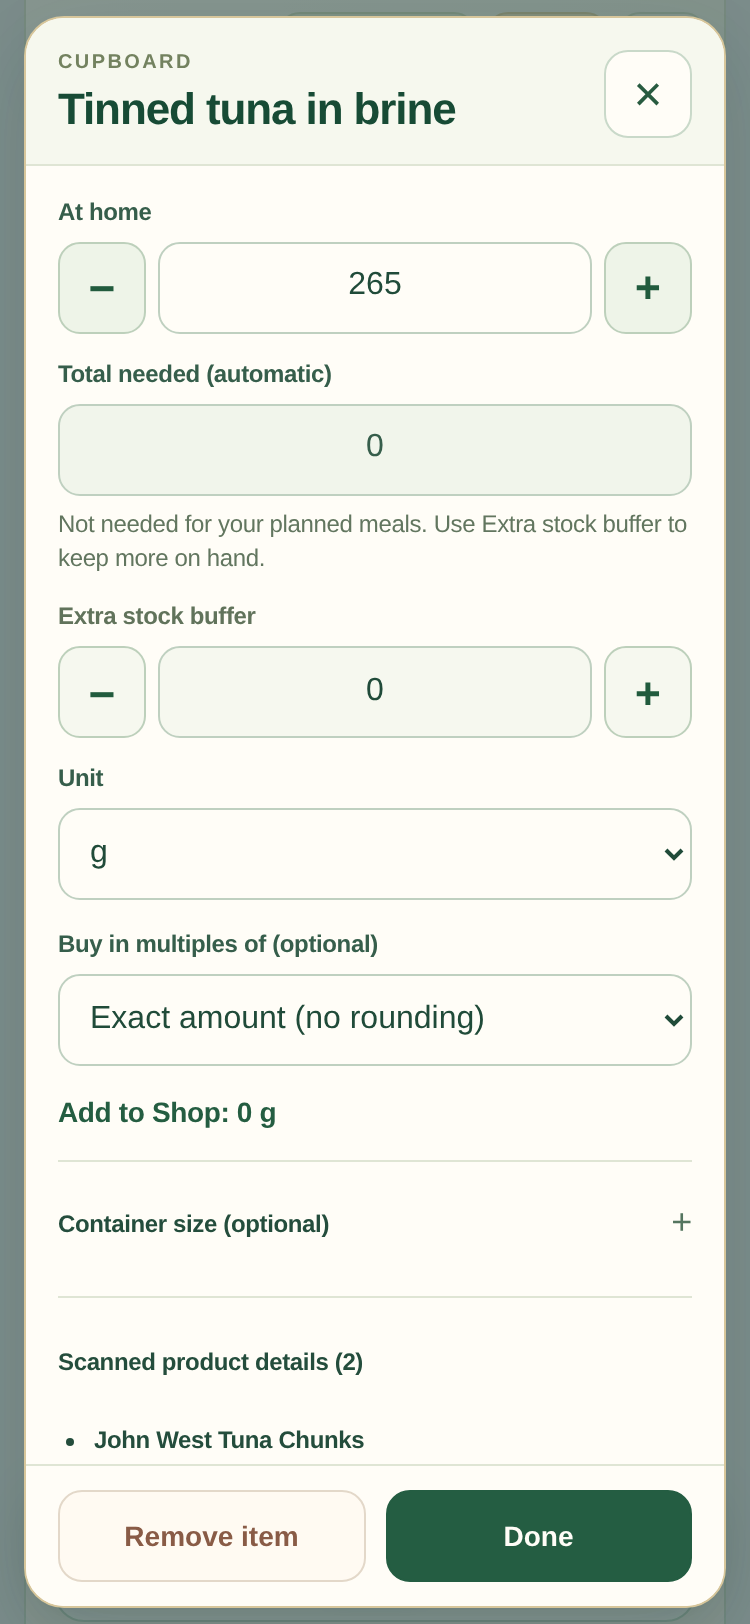
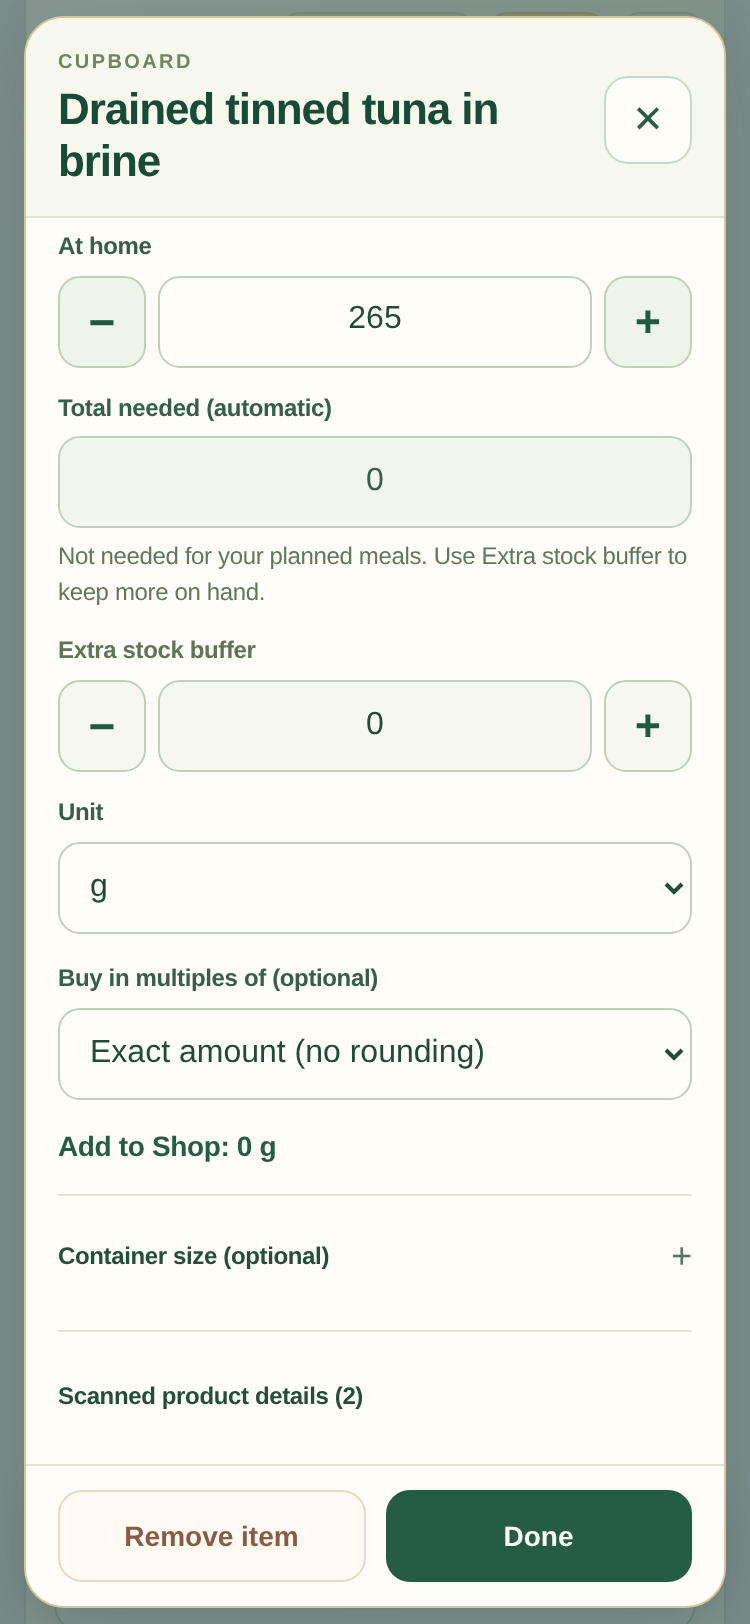
Separate tuna weight bases and preserve completed native test reports

diff --git a/bb-pantry-inline.js b/bb-pantry-inline.js
@@ -245,11 +245,11 @@
    // Recalculate it in the current unit rather than reusing a rounded input.
    try{info=win.BBHome?.foodTarget?.({...draftRow(view),inputMarket:market(),automaticNeeded:true,extraBuffer:0,buyMultiple:0},{otherRows:view.api.list().filter(item=>item.key!==(view.key||view.matchedKey))});}catch{}
    const problem=info?.targetProblem||(!info?'Shopping totals are still loading. Please try again.':'');
-   view.needed.value=problem?'':String(info.totalNeeded);
+   view.needed.value=problem?'':info.plannedNeedsReview&&info.totalQuantity===0?'Needs review':String(info.totalNeeded);
    let help=problem;
    if(!problem){
     const number=new Intl.NumberFormat(market()==='US'?'en-US':'en-GB',{maximumFractionDigits:2});
-    help=info.plannedNeedsReview?'Planned meal quantities need a unit check; only compatible amounts are included.':info.mealQuantity>0?'From your planned meals: '+number.format(info.mealNeeded)+' '+view.units.value+'.':'Not needed for your planned meals.';
+    help=info.plannedNeedsReview?(info.plannedReviewMessage||'Planned meal quantities need a unit check; only compatible amounts are included.'):info.mealQuantity>0?'From your planned meals: '+number.format(info.mealNeeded)+' '+view.units.value+'.':'Not needed for your planned meals.';
     if(info.totalQuantity>info.mealQuantity+info.quantityTolerance)help+=' Includes your saved restock target.';
     if(info.manualQuantity>0)help+=' Extra already on Shop: '+number.format(info.manualNeeded)+' '+view.units.value+'.';
     if(info.otherRequestsNeedReview)help+=' Some existing Shop items use different units and need review.';
@@ -260,7 +260,7 @@
   function refreshPreview(view=editor){
    if(!view)return;
    const target=automaticNeeded(view);
-   const owned=Number(view.quantity.value),needed=Number(view.needed.value),buffer=Number(view.buffer.value),known=view.quantity.value.trim()!==''&&view.needed.value.trim()!==''&&view.buffer.value.trim()!==''&&[owned,needed,buffer].every(value=>Number.isFinite(value)&&value>=0);
+   const owned=Number(view.quantity.value),needed=target?.totalNeeded??NaN,buffer=Number(view.buffer.value),known=!!target&&view.quantity.value.trim()!==''&&view.buffer.value.trim()!==''&&[owned,needed,buffer].every(value=>Number.isFinite(value)&&value>=0);
    const unit=view.units.value,model=draftRow(view),other=Number(view.row.otherOwned||0)===0?0:converted({...view.row,qty:view.row.otherOwned},unit,win.BBPantryPolicy,market()),buy=multipleDraft(view);
    let calculation=null;
    if(target&&known&&!target.otherOwnedNeedsReview&&other!==null&&buy.quantity!==null)try{
@@ -303,7 +303,7 @@
   }
   function preparePanel(view){
    const target=automaticNeeded(view);
-   const row=draftRow(view),raw=view.quantity.value.trim(),neededRaw=view.needed.value.trim(),bufferRaw=view.buffer.value.trim(),buy=multipleDraft(view);
+   const row=draftRow(view),raw=view.quantity.value.trim(),neededRaw=target?String(target.totalNeeded):'',bufferRaw=view.buffer.value.trim(),buy=multipleDraft(view);
    if(!row.name)return {error:'Enter the food name.',field:view.name};
    if(view.group&&(view.groupDirty||view.newItem)){
     try{const pin=win.BBPantryGroups.context();if(pin.actor!==view.actor||pin.raw!==view.group.pin.raw)return {error:'Subcategories changed. Close this panel and review them before saving.'};view.group.pin=pin;}catch{return {error:'Reopen At home to review your subcategories before saving.'};}
@@ -385,7 +385,7 @@
    const field=(label,input,value,aria)=>{input.type='number';input.inputMode='decimal';input.min='0';input.max=row.staple?'10000':'1000000';input.step=row.staple?'1':'any';input.placeholder='0';input.value=value;input.setAttribute('aria-label',aria);const stepper=el('div','bbpi-stepper'),less=btn('−',()=>localStep(input,-1),'bbpi-step'),more=btn('+',()=>localStep(input,1),'bbpi-step');less.setAttribute('aria-label','Less '+aria);more.setAttribute('aria-label','More '+aria);stepper.append(less,input,more);label.append(stepper);controls.append(label);};
    field(quantityLabel,quantity,rowAmount(row,unit),'Amount of '+(row.name||'food')+' at home');quantity.step='any';quantity.dataset.bbpiQuantity='';
    const defaultNeeded=converted({...row,qty:row.totalNeeded??0},unit,win.BBPantryPolicy,market());
-   needed.type='number';needed.readOnly=true;needed.value=defaultNeeded===null?'':String(defaultNeeded);needed.setAttribute('aria-label','Total needed for '+(row.name||'food'));needed.setAttribute('aria-describedby','bbpiNeededHelp');needed.dataset.bbpiNeeded='';neededHelp.id='bbpiNeededHelp';neededHelp.setAttribute('aria-live','polite');neededLabel.append(needed,neededHelp);controls.append(neededLabel);
+   needed.type='text';needed.readOnly=true;needed.value=defaultNeeded===null?'':String(defaultNeeded);needed.setAttribute('aria-label','Total needed for '+(row.name||'food'));needed.setAttribute('aria-describedby','bbpiNeededHelp');needed.dataset.bbpiNeeded='';neededHelp.id='bbpiNeededHelp';neededHelp.setAttribute('aria-live','polite');neededLabel.append(needed,neededHelp);controls.append(neededLabel);
    const defaultBuffer=converted({...row,qty:row.extraBuffer??0},unit,win.BBPantryPolicy,market());
    field(bufferLabel,buffer,defaultBuffer===null?'':String(defaultBuffer),'Extra stock buffer for '+(row.name||'food'));buffer.dataset.bbpiBuffer='';
    const unitTag=el('label','bbpi-unit-label','Unit'),units=el('select');units.setAttribute('aria-label','Unit for '+(row.name||'food'));unitOptions(units,row.staple?['each']:(api.units?.()||['each','g','kg','ml','l','pack','bag','tin']),unit,row);unitTag.append(units);controls.append(unitTag);content.append(controls);

diff --git a/ios/App/App/AppDelegate.swift b/ios/App/App/AppDelegate.swift
@@ -379,18 +379,27 @@ private enum BasketBossAccountKeyboardSetup {
 // A fresh CI simulator can exercise the actual capacitor:// WKWebView. This
 // hook is excluded from Release and never changes a user's normal installation.
 private final class BasketBossCookSmokeReporter: NSObject, WKScriptMessageHandler {
+    // This reporter is created afresh for each smoke launch. Completion is
+    // terminal, including failure; queued messages from an older document
+    // must not replace the final report while XCTest polls its atomic file.
+    private var completed = false
+
     func userContentController(_ userContentController: WKUserContentController, didReceive message: WKScriptMessage) {
         guard let report = message.body as? [String: Any] else { return }
         record(report)
     }
 
     func record(_ report: [String: Any]) {
+        guard !completed else { return }
         let keys = ["complete", "passed", "nativeOrigin", "cookMounted", "cookReady", "navPresent", "navVisible", "navHit", "legacyVisible", "backToPlan", "dataKept", "mainReady", "startupReady", "phase", "readyState", "errorCount", "errorLine", "errorKind", "errorSource", "lastScript", "scriptCount", "ingredientClosed", "ingredientPhoto", "ingredientSaved", "ingredientAutofill", "ingredientExistingKept", "ingredientRestored", "voiceFreeLocked", "voiceManualStart", "voiceNextStep", "voiceTimer", "voiceScaledAmount", "voiceExitStopped", "voiceRestored", "voicePrepAvailable", "voicePrepNarrated", "voicePrepAdvanced", "voiceCookNarrated", "voiceStepNarrated", "mentorAvailable", "mentorRecipeContext", "mentorSpokenQuestion", "mentorTypedQuestion", "mentorFollowupHistory", "mentorPrivateAudio", "mentorAnswerVisible", "mentorNoAutonomousActions", "mentorCancelledAnswer", "mentorInterrupt", "mentorHistoryCleared", "mentorNoDeviceFallback", "mentorGreetingName", "voiceFailure"]
         let safe = report.filter { keys.contains($0.key) }
         guard let data = try? JSONSerialization.data(withJSONObject: safe, options: [.sortedKeys]),
               let folder = FileManager.default.urls(for: .documentDirectory, in: .userDomainMask).first else { return }
         try? FileManager.default.createDirectory(at: folder, withIntermediateDirectories: true)
-        try? data.write(to: folder.appendingPathComponent("bb-native-cook-smoke.json"), options: .atomic)
+        do {
+            try data.write(to: folder.appendingPathComponent("bb-native-cook-smoke.json"), options: .atomic)
+            completed = report["complete"] as? Bool == true
+        } catch {}
     }
 
     static let script = #"""
@@ -400,9 +409,11 @@ private final class BasketBossCookSmokeReporter: NSObject, WKScriptMessageHandle
       addEventListener('error',e=>{errors.push({kind:e.error?.name||'ResourceError',line:e.lineno||0,source:String(e.filename||e.target?.src||'').split('/').pop().split('?')[0].replace(/[^A-Za-z0-9_.-]/g,'').slice(0,100)});},true);
       localStorage.setItem('bb_onboarding_fresh_once_20261028_v1',JSON.stringify({complete:true,step:10}));
       localStorage.setItem('basketboss_native_smoke_probe','keep');
-      let ticks=0,scrolled=false,navigationPending=false,ingredientRunning=false,voiceRunning=false;
-      function progress(report={},complete=false){const e=errors[0]||{},scripts=[...document.scripts],last=scripts.at(-1);window.webkit.messageHandlers.bbNativeCookSmoke.postMessage({...JSON.parse(sessionStorage.getItem(key+'_report')||'{}'),complete,nativeOrigin:location.protocol==='capacitor:',phase:location.pathname.endsWith('/make-a-meal.html')?'cook':sessionStorage.getItem(key)==='back'?'return':'main',readyState:document.readyState,mainReady:!!document.getElementById('app')?.firstElementChild,startupReady:window.BBNativeStartup?.phase==='ready',scriptCount:scripts.length,lastScript:String(last?.src||last?.id||'inline').split('/').pop().split('?')[0].replace(/[^A-Za-z0-9_.-]/g,'').slice(0,100),...report,errorCount:errors.length,errorLine:e.line||0,errorKind:e.kind||'',errorSource:e.source||''});}
-      function send(report){progress(report,true);clearInterval(timer);}
+      let ticks=0,scrolled=false,navigationPending=false,ingredientRunning=false,voiceRunning=false,completed=false;
+      function progress(report={},complete=false){if(completed&&!complete)return;const e=errors[0]||{},scripts=[...document.scripts],last=scripts.at(-1);window.webkit.messageHandlers.bbNativeCookSmoke.postMessage({...JSON.parse(sessionStorage.getItem(key+'_report')||'{}'),complete,nativeOrigin:location.protocol==='capacitor:',phase:location.pathname.endsWith('/make-a-meal.html')?'cook':sessionStorage.getItem(key)==='back'?'return':'main',readyState:document.readyState,mainReady:!!document.getElementById('app')?.firstElementChild,startupReady:window.BBNativeStartup?.phase==='ready',scriptCount:scripts.length,lastScript:String(last?.src||last?.id||'inline').split('/').pop().split('?')[0].replace(/[^A-Za-z0-9_.-]/g,'').slice(0,100),...report,errorCount:errors.length,errorLine:e.line||0,errorKind:e.kind||'',errorSource:e.source||''});}
+      // A later load/readystatechange/script event must not replace the final
+      // atomic report with an incomplete Cook-only snapshot after return.
+      function send(report){if(completed)return;completed=true;progress(report,true);clearInterval(timer);}
       async function verifyIngredients(){
         const report={},stateKey='basketboss_321_unified_state_v1';
         const wait=async read=>{for(let n=0;n<60;n++){const value=read();if(value)return value;await new Promise(resolve=>setTimeout(resolve,100));}throw Error('IngredientSmokeTimeout');};

diff --git a/bb-home.js b/bb-home.js
@@ -168,14 +168,19 @@
    const nameId=host().id(row.name,''),matching=name=>host().id(name,'')===nameId;
    const raw=row.qty===null||row.qty===undefined||row.qty===''?null:Number(row.qty),owned=raw===null?{quantity:0,unit:one.unit}:measure(row,raw);
    if(!owned||owned.unit!==one.unit||!valid(owned.quantity))return problem('Review the amount at home before adding this item to Shop.');
-   let planned=0,prior=0,manual=0,otherOwned=0,otherOwnedNeedsReview=false,defaultRestock=0,hasPrior=false,plannedNeedsReview=false,otherRequestsNeedReview=false;
+   let planned=0,prior=0,manual=0,otherOwned=0,otherOwnedNeedsReview=false,defaultRestock=0,hasPrior=false,plannedNeedsReview=false,otherRequestsNeedReview=false,plannedReviewMessage='';
+   const cannedTuna=name=>{const text=String(policy?.canonicalName?.(name,win.BBPriceV19?.canonical)||name||'').normalize('NFKD').toLowerCase();return /\btuna\b/.test(text)&&/\b(?:tinned|canned|tins?|cans?)\b/.test(text)&&!/\b(?:fresh|frozen|raw|steaks?|fillets?|salmon|mackerel|sardines?|anchovies|cod|haddock|trout)\b/.test(text);};
    for(const item of otherRows){
     if(!matching(item?.name||item?.key)||item.qty===null||item.qty===undefined||item.qty==='')continue;
     const value=measure(item,Number(item.qty));
     if(!value||value.unit!==one.unit){if(Number(item.qty)>0)otherOwnedNeedsReview=true;continue;}otherOwned+=value.quantity;
    }
    for(const item of requirements||host()?.requirements?.()||[]){
-    if(!matching(item.key||item.name)||!(Number(item.required)>0))continue;
+    if(!(Number(item.required)>0))continue;
+    if(!matching(item.key||item.name)){
+     if(cannedTuna(row.name)&&cannedTuna(item.key||item.name)){plannedNeedsReview=true;plannedReviewMessage='Your planned meals use related tuna, but the type or net/drained weight needs review.';}
+     continue;
+    }
     if(container){if(item.cupboardRequired===false){if(!automatic||!(raw>0)||(policy?.stapleStatus?.(row)||row.stapleStatus)!=='in')defaultRestock=1;continue;}planned=1;continue;}
     const value=measure(item,Number(item.required));
     if(measuredMode&&(!value||value.unit!==one.unit)){plannedNeedsReview=true;continue;}
@@ -217,7 +222,7 @@
     purchase=automatic?purchaseAmounts({needed:missing,owned:0,multiple:buyMultiple,unit:one.unit}):purchaseAmounts({needed:total,buffer:extraBuffer,owned:totalOwned,multiple:buyMultiple,unit:one.unit});
    }catch(error){return problem(error.message);}
    const view=value=>Math.round(value/one.quantity*1000000)/1000000;
-   return {totalNeeded:view(total),totalQuantity:total,requiredNeeded:view(total+extraBuffer),requiredQuantity:roundQuantity(total+extraBuffer),extraBuffer:view(extraBuffer),extraBufferQuantity:extraBuffer,buyMultiple:view(buyMultiple),buyMultipleUnit:row.unit,buyMultipleQuantity:buyMultiple,unroundedShortfall:view(purchase.shortfall),purchasePackCount:purchase.packCount,mealNeeded:view(planned),minimumNeeded:view(minimum),manualNeeded:view(manual),otherOwned:view(otherOwned),otherOwnedNeedsReview,plannedNeedsReview,otherRequestsNeedReview,shortfall:view(purchase.purchaseQuantity),targetProblem:'',canonicalUnit:one.unit,quantityPerUnit:one.quantity,quantityTolerance:Math.max(0.000001,one.quantity*0.0000005+0.0000005),mealQuantity:planned,manualQuantity:manual,minimumQuantity:minimum,restockQuantity:prior,restockPending:hasPrior,defaultRestockQuantity:hasPrior?0:defaultRestock};
+   return {totalNeeded:view(total),totalQuantity:total,requiredNeeded:view(total+extraBuffer),requiredQuantity:roundQuantity(total+extraBuffer),extraBuffer:view(extraBuffer),extraBufferQuantity:extraBuffer,buyMultiple:view(buyMultiple),buyMultipleUnit:row.unit,buyMultipleQuantity:buyMultiple,unroundedShortfall:view(purchase.shortfall),purchasePackCount:purchase.packCount,mealNeeded:view(planned),minimumNeeded:view(minimum),manualNeeded:view(manual),otherOwned:view(otherOwned),otherOwnedNeedsReview,plannedNeedsReview,plannedReviewMessage,otherRequestsNeedReview,shortfall:view(purchase.purchaseQuantity),targetProblem:'',canonicalUnit:one.unit,quantityPerUnit:one.quantity,quantityTolerance:Math.max(0.000001,one.quantity*0.0000005+0.0000005),mealQuantity:planned,manualQuantity:manual,minimumQuantity:minimum,restockQuantity:prior,restockPending:hasPrior,defaultRestockQuantity:hasPrior?0:defaultRestock};
   }
   function roundShoppingItems(items){
    const preferences=Object.values(targets()),policy=win.BBPantryPolicy,market=win.bb307ActiveMarket?.()||'UK';

diff --git a/bb-pantry-camera.js b/bb-pantry-camera.js
@@ -41,6 +41,9 @@
    if(bases.size>1)problem='Net and drained weights cannot be combined. Review these product amounts.';
    if(group.rows.length>1&&group.rows.some(row=>row.product.needsVariant&&row.amount?.quantity>0))problem='Confirm the packing liquid before combining tuna from different products.';
    if(previous.scanQuantityBasis&&bases.size&& !bases.has(previous.scanQuantityBasis)&&previous.bb173StockValue>0)problem='The saved stock uses a different weight basis. Review the existing total before replacing it.';
+   for(const [oldId,old]of Object.entries(nextInventory))if(oldId!==id&&old?.selected!==false&&old.loc===loc&&old.bb173StockValue>0&&old.scanQuantityBasis&&bases.size&&!bases.has(old.scanQuantityBasis)&&Array.isArray(old.scanProductLots)){
+    if(old.scanProductLots.some(prior=>lots.some(lot=>String(lot.productName).toLowerCase()===String(prior.productName).toLowerCase())))problem='The saved stock uses a different weight basis. Review the existing total before replacing it.';
+   }
    // Retire only unmeasured aliases whose exact product is present in this
    // reviewed snapshot. Previously measured branded stock is never guessed.
    for(const [oldId,old]of Object.entries(nextInventory))if(oldId!==id&&old?.selected!==false&&old.loc===loc&&incoming.has(oldId)){

diff --git a/bb-scan-food-identity.js b/bb-scan-food-identity.js
@@ -18,7 +18,7 @@
    if(declared&&chosen!==declared)throw Error('The selected tuna type disagrees with its product label.');
    const basis=quantityBasis==='net'||quantityBasis==='drained'?quantityBasis:tuna[3]==='drained'?'drained':tuna[3]==='net weight'?'net':'';
    if(tuna[3]&&basis!==(tuna[3]==='drained'?'drained':'net'))throw Error('The selected weight basis disagrees with its product label.');
-   return {...result,canonicalName:'Tinned tuna'+(chosen?' '+variants[chosen]:''),brand:tuna[1]?/^john/.test(tuna[1])?'John West':'Waitrose':'',family:'tinned tuna',approved:true,variant:chosen,quantityBasis:basis,needsVariant:!chosen,needsBasis:!basis};
+   return {...result,canonicalName:(basis==='drained'?'Drained tinned tuna':'Tinned tuna')+(chosen?' '+variants[chosen]:''),brand:tuna[1]?/^john/.test(tuna[1])?'John West':'Waitrose':'',family:'tinned tuna',approved:true,variant:chosen,quantityBasis:basis,needsVariant:!chosen,needsBasis:!basis};
   }
   const tomato=label.match(/^(?:(essential waitrose|waitrose) )?((?:tinned |canned )?chopped tomatoes)$/);
   if(tomato)return {...result,canonicalName:'Chopped tomatoes',brand:tomato[1]?'Waitrose':'',family:'chopped tomatoes',approved:true};

diff --git a/docs/PANTRY_STOCK_FLOW_20261107.md b/docs/PANTRY_STOCK_FLOW_20261107.md
@@ -9,12 +9,12 @@ At home now calculates meal demand automatically, saves extra stock without requ
 - A half-used bottle is valid stock. A one-bottle buffer with 0.5 bottles owned requests one whole bottle. Finishing adds one bottle, leaving 1.5; repeating Finish does not add it again.
 - One 20 g peppercorn jar is one jar with 20 g recorded as its contents. A reviewed measured entry can instead hold 20 g. Changing tracking mode requires a new quantity; old container counts are never silently treated as grams.
 - Explicit restock targets and direct Shop requests remain intact. Incompatible measurements and ambiguous Pepper identities stay visible for review rather than receiving guessed conversions or stock credit.
-- Approved compatible product aliases from an At home photo review share a food heading and retain individual brand/product details. Confirmed compatible amounts are grouped before the stocktake replaces that location's amount. Unknown amounts, packing liquids and net/drained weight differences require review. Existing measured branded stock is not automatically migrated.
+- Approved compatible product aliases from an At home photo review share a food heading and retain individual brand/product details. Confirmed compatible amounts are grouped before the stocktake replaces that location's amount. Unknown amounts, packing liquids and net/drained weight differences require review. Existing measured branded stock is not automatically migrated. Drained tuna has a distinct physical identity from net pack weight; related meal quantities show Needs review instead of an incorrect zero-demand message.
 - Moving between a long Cupboard list and short Fridge list reveals the chosen section beneath the toolbar. Unchanged item controls remain mounted; tapping an already active Food/Essentials tab does not reset the scroll position or flush again.
 
 ## Validation
 
-- Full Node suite: 2,841 cases, 2,838 passed, zero failures, one unavailable Swift check skipped, two existing TODOs.
+- Full Node suite: 2,847 cases, 2,844 passed, zero failures, one unavailable Swift check skipped, two existing TODOs.
 - Pinned TypeScript 5.9.3: strict/checkJs/noEmit pantry contracts passed.
 - Generated native web bundle: 936 files, 100 Free recipes, no private recipe bundle. Portable iOS verification passed; Xcode signing and device compilation still require the Mac.
 - Isolated touch Chromium at 375 px and 320 px: full plan/stock/shop/cook and scanner journeys passed, with no page or console errors and matching source hashes.
@@ -24,6 +24,10 @@ All browser HTTP traffic was intercepted and used synthetic accounts. No custome
 
 One earlier 375 px attempt recorded an unexplained same-URL reload after reopening a jar editor. The focused repro and full traced rerun passed; the traced rerun contained only the six expected test navigations. This attempt remains in the QA history; no speculative navigation or account-security change was made.
 
+## Native CI reporter
+
+A Debug-only Cook test reporter could overwrite its completed atomic result with a later load/readystate/script progress message. Completion is now terminal in both the JavaScript reporter and its per-launch native writer, including a failed final result. Deterministic regressions reproduce the old race when the guard is removed. Production navigation, assertions, timers and timeouts are unchanged; the hook is excluded from Release.
+
 ## iPhone update
 
-The live App Store binary needs a new signed build to receive these bundled UI changes. `release-assets/prepare-build32-mac.command` creates a fresh Mac checkout from the pinned `appstore-1.0.1-build32-pantry` handoff tag, prepares version 1.0.1 / Build 32 and opens Xcode. It preserves the bundle identifier and signing team. Archive/upload and App Store submission remain separate manual steps; the helper does not publish the app.
+The live App Store binary needs a new signed build to receive these bundled UI changes. `release-assets/prepare-build32-mac.command` creates a fresh Mac checkout from the pinned `appstore-1.0.1-build32-pantry-final` handoff tag, prepares version 1.0.1 / Build 32 and opens Xcode. It preserves the bundle identifier and signing team. Archive/upload and App Store submission remain separate manual steps; the helper does not publish the app.
